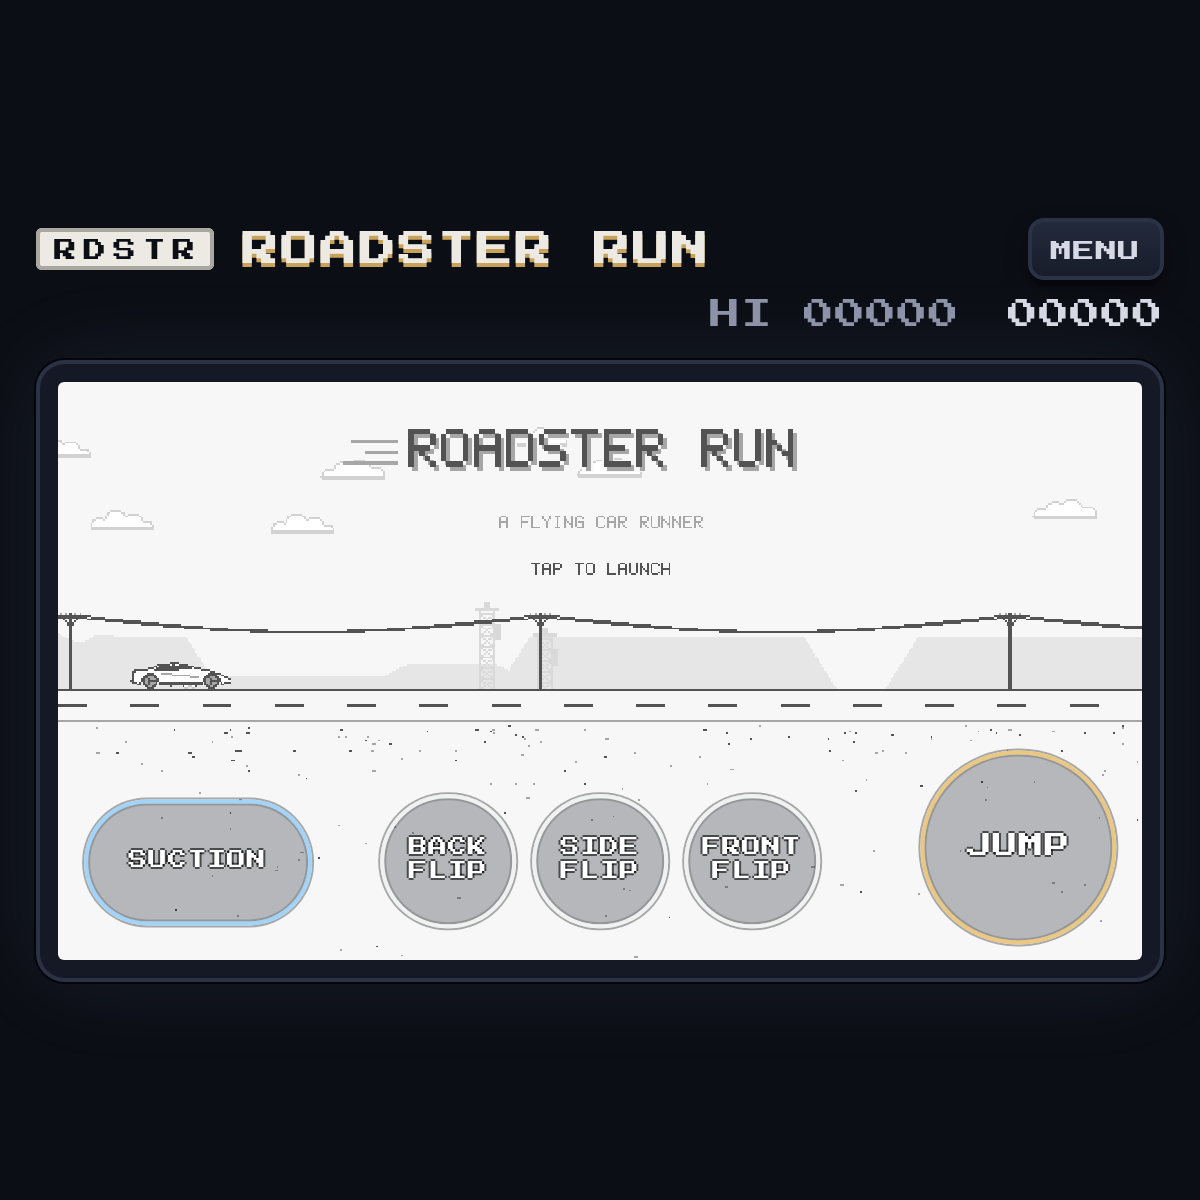
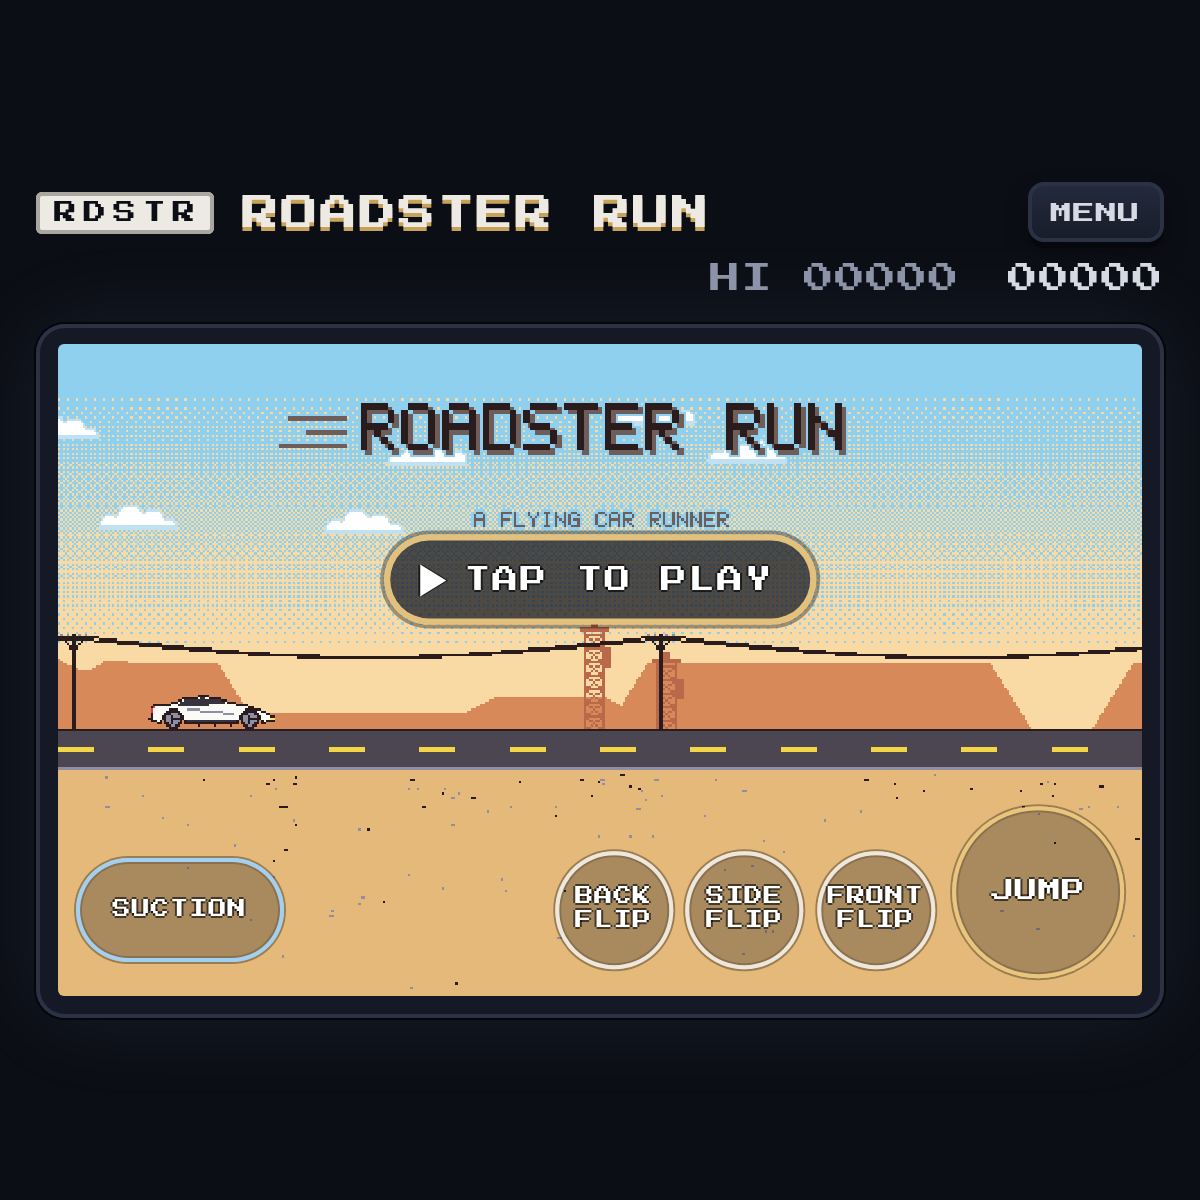
Roadster Run: Texas colors, closer view, smaller buttons (#14)
- The Texas colors are the default on the full page and in the square player.
- The square player shows a closer view (480 by 288), so the car looks
  bigger on a phone.
- The on-screen buttons are smaller. SUCTION is alone on the left, and the
  three flips sit in a row next to JUMP.
- The poster says TAP TO PLAY, because X shows only the picture until
  someone opens the post.

diff --git a/web/public/roadster-run/player.html b/web/public/roadster-run/player.html
@@ -17,12 +17,12 @@
 <meta name="twitter:player" content="https://shreyaspimpalgaonkar.github.io/roadster-run/player.html">
 <meta name="twitter:player:width" content="640">
 <meta name="twitter:player:height" content="640">
-<meta name="twitter:image" content="https://shreyaspimpalgaonkar.github.io/roadster-run/poster.png?v=4">
+<meta name="twitter:image" content="https://shreyaspimpalgaonkar.github.io/roadster-run/poster.png?v=7">
 <meta name="twitter:image:alt" content="The Roadster Run title screen in gray pixel art, with a white Roadster parked on a desert road.">
 <meta property="og:type" content="website">
 <meta property="og:title" content="Roadster Run">
 <meta property="og:description" content="Fly Tesla's new flying Roadster in a retro runner. Jump, hover, and do backflips, frontflips and sideflips.">
-<meta property="og:image" content="https://shreyaspimpalgaonkar.github.io/roadster-run/card.png?v=4">
+<meta property="og:image" content="https://shreyaspimpalgaonkar.github.io/roadster-run/card.png?v=7">
 <meta property="og:image:width" content="1200">
 <meta property="og:image:height" content="630">
 <meta property="og:url" content="https://shreyaspimpalgaonkar.github.io/roadster-run/player.html">
@@ -45,10 +45,10 @@
   html, body { margin: 0; height: 100%; overflow: hidden; background: var(--cab); color: var(--ink); }
   body { font-family: var(--display); -webkit-text-size-adjust: 100%; user-select: none; -webkit-user-select: none; }
   button { font: inherit; color: inherit; }
-  /* In a wide frame the cabinet gets narrower, so the 15:8 screen still fits the height. */
+  /* In a wide frame the cabinet gets narrower, so the 5:3 screen still fits the height. */
   .cab {
     position: fixed; inset: 0; margin: 0 auto; box-sizing: border-box; display: flex; flex-direction: column; justify-content: center;
-    width: min(100%, calc((100vh - var(--u) * 24 - 14px) * 1.875 + var(--u) * 9.6));
+    width: min(100%, calc((100vh - var(--u) * 24 - 14px) * 1.6667 + var(--u) * 9.6));
     gap: calc(var(--u) * 2.4); padding: calc(var(--u) * 3);
   }
   .top { display: flex; align-items: center; gap: calc(var(--u) * 2.4); }
@@ -75,7 +75,7 @@
     touch-action: none; cursor: pointer; -webkit-tap-highlight-color: transparent;
   }
   #game {
-    display: block; width: 100%; height: auto; aspect-ratio: 600 / 320; border-radius: 3px;
+    display: block; width: 100%; height: auto; aspect-ratio: 480 / 288; border-radius: 3px;
     image-rendering: pixelated; image-rendering: crisp-edges; -webkit-touch-callout: none;
   }
   .screen .view3d, .screen .hud3d {
@@ -89,13 +89,14 @@
     background: repeating-linear-gradient(to bottom, rgba(0, 0, 0, 0) 0 2px, rgba(0, 0, 0, 0.16) 2px 3px),
       radial-gradient(ellipse at center, rgba(0, 0, 0, 0) 60%, rgba(0, 0, 0, 0.32) 100%);
   }
-  /* on-screen buttons: placed in percent of the 600x320 game picture; the road ends at 59%,
-     so the buttons only cover the ground strip under it */
+  /* on-screen buttons: placed in percent of the 480x288 game picture; the road ends at 65%,
+     so the buttons only cover the ground strip under it. SUCTION is alone on the left,
+     and the three flips sit in a row next to JUMP on the right. */
   .ctl { position: absolute; inset: var(--pad); z-index: 3; pointer-events: none; container-type: inline-size; }
   .tb {
     position: absolute; transform: translate(-50%, -50%); aspect-ratio: 1; height: auto; border-radius: 50%;
     display: grid; place-items: center; align-content: center; padding: 0; margin: 0; pointer-events: auto;
-    font-size: calc(var(--u) * 1.6); font-size: 1.75cqw; line-height: 1.35; letter-spacing: 0.04em; text-align: center; color: #fff;
+    font-size: calc(var(--u) * 1.5); font-size: 1.7cqw; line-height: 1.35; letter-spacing: 0.04em; text-align: center; color: #fff;
     text-shadow: 1px 0 0 rgba(0, 0, 0, 0.6), -1px 0 0 rgba(0, 0, 0, 0.6), 0 1px 0 rgba(0, 0, 0, 0.6), 0 -1px 0 rgba(0, 0, 0, 0.6);
     background: rgba(14, 17, 27, 0.28); border: 2px solid rgba(255, 255, 255, 0.8);
     box-shadow: 0 0 0 1px rgba(0, 0, 0, 0.32), inset 0 0 0 1px rgba(0, 0, 0, 0.18);
@@ -104,10 +105,10 @@
   }
   .tb span { display: block; }
   .tb.down { background: rgba(255, 255, 255, 0.42); transform: translate(-50%, -50%) scale(0.92); }
-  .tb.jump { width: 18%; left: 88.6%; top: 80.6%; font-size: calc(var(--u) * 2.1); font-size: 2.3cqw; border-color: rgba(236, 200, 128, 0.95); }
-  .tb.duck { width: 21%; aspect-ratio: 120 / 66; border-radius: 999px; left: 12.9%; top: 83.2%; border-color: rgba(159, 214, 255, 0.92); }
-  .tb.flip { width: 12.5%; top: 83%; }
-  .tb.back { left: 36%; } .tb.side { left: 50%; } .tb.front { left: 64%; }
+  .tb.jump { width: 15.83%; left: 90.42%; top: 84.03%; font-size: calc(var(--u) * 1.9); font-size: 2.1cqw; border-color: rgba(236, 200, 128, 0.95); }
+  .tb.duck { width: 19.17%; aspect-ratio: 2; border-radius: 999px; left: 11.25%; top: 86.8%; border-color: rgba(159, 214, 255, 0.92); }
+  .tb.flip { width: 10.83%; top: 86.8%; }
+  .tb.back { left: 51.25%; } .tb.side { left: 63.33%; } .tb.front { left: 75.42%; }
   button:focus-visible, a:focus-visible { outline: 2px solid var(--gas); outline-offset: 2px; }
 
   /* the options menu covers the cabinet; the game waits underneath */
@@ -143,7 +144,7 @@
   </header>
   <div class="scores" aria-live="off"><span class="hi" id="hi">HI 00000</span><span id="sc">00000</span></div>
   <div class="screen" id="screen">
-    <canvas id="game" width="600" height="320" aria-label="Roadster Run. Tap to play."></canvas>
+    <canvas id="game" width="480" height="288" aria-label="Roadster Run. Tap to play."></canvas>
     <div class="ctl">
       <button class="tb duck" id="btnDuck" type="button" aria-label="Suction. Hold to duck.">SUCTION</button>
       <button class="tb flip back" id="btnBack" type="button" aria-label="Backflip"><span>BACK</span><span>FLIP</span></button>
@@ -164,7 +165,7 @@
       </div>
     </div>
     <div class="grid2">
-      <button class="opt" type="button" data-act="colors" id="optColors">COLORS: CLASSIC</button>
+      <button class="opt" type="button" data-act="colors" id="optColors">COLORS: TEXAS</button>
       <button class="opt" type="button" data-act="crt" id="optCrt" aria-pressed="false">CRT: OFF</button>
       <button class="opt" type="button" data-act="music" id="optMusic" aria-pressed="true">MUSIC: ON</button>
       <button class="opt" type="button" data-act="sound" id="optSound" aria-pressed="true">SOUND: ON</button>
@@ -178,7 +179,7 @@
 </div>
 
 <script>
-  window.RR_CONFIG = { palette: 'classic', fit: 'css', screenH: 320, view3d: { w: 600, h: 320, band: 120 }, zones: false };
+  window.RR_CONFIG = { palette: 'texas', fit: 'css', screenW: 480, screenH: 288, view3d: { w: 480, h: 288, band: 88 }, zones: false };
 </script>
 <script src="js/sprites.js"></script>
 <script src="js/core.js"></script>

diff --git a/web/public/roadster-run/index.html b/web/public/roadster-run/index.html
@@ -17,12 +17,12 @@
 <meta name="twitter:player" content="https://shreyaspimpalgaonkar.github.io/roadster-run/player.html">
 <meta name="twitter:player:width" content="640">
 <meta name="twitter:player:height" content="640">
-<meta name="twitter:image" content="https://shreyaspimpalgaonkar.github.io/roadster-run/poster.png?v=4">
+<meta name="twitter:image" content="https://shreyaspimpalgaonkar.github.io/roadster-run/poster.png?v=7">
 <meta name="twitter:image:alt" content="The Roadster Run title screen in gray pixel art, with a white Roadster parked on a desert road.">
 <meta property="og:type" content="website">
 <meta property="og:title" content="Roadster Run">
 <meta property="og:description" content="Fly Tesla's new flying Roadster in a retro runner, in 2D or 3D.">
-<meta property="og:image" content="https://shreyaspimpalgaonkar.github.io/roadster-run/card.png?v=4">
+<meta property="og:image" content="https://shreyaspimpalgaonkar.github.io/roadster-run/card.png?v=7">
 <meta property="og:image:width" content="1200">
 <meta property="og:image:height" content="630">
 <meta property="og:url" content="https://shreyaspimpalgaonkar.github.io/roadster-run/">
@@ -312,7 +312,7 @@
       <button class="pad jump chamfer" id="btnJump" type="button">JUMP<small>HOLD TO HOVER</small></button>
     </div>
     <div class="opts">
-      <button class="chamfer" type="button" data-act="colors" id="optColors">COLORS: CLASSIC</button>
+      <button class="chamfer" type="button" data-act="colors" id="optColors">COLORS: TEXAS</button>
       <button class="chamfer" type="button" data-act="sound" id="optSound" aria-pressed="true">SOUND: ON</button>
       <button class="chamfer" type="button" data-act="music" id="optMusic" aria-pressed="true">MUSIC: ON</button>
       <button class="chamfer" type="button" data-act="crt" id="optCrt" aria-pressed="false">CRT: OFF</button>
@@ -367,7 +367,7 @@
   </footer>
 </div>
 
-<script>window.RR_CONFIG = { palette: 'classic' };</script>
+<script>window.RR_CONFIG = { palette: 'texas' };</script>
 <script src="js/sprites.js"></script>
 <script src="js/core.js"></script>
 <script src="js/render2d.js"></script>

diff --git a/web/public/roadster-run/js/render2d.js b/web/public/roadster-run/js/render2d.js
@@ -1,6 +1,7 @@
 /* Roadster Run: the 2D pixel renderer. Draws the shared simulation into a
    600x200 canvas that CSS scales up with nearest-neighbour filtering.
-   opts.h makes the canvas taller; the extra rows are ground below the road. */
+   opts.h makes the canvas taller; the extra rows are ground below the road.
+   opts.w makes it narrower, which is a closer view: the car and the traffic look bigger. */
 (function (global) {
   'use strict';
   const A = global.RRArt, C = global.RRCore.CFG;
@@ -13,10 +14,11 @@
   class Render2D {
     constructor(canvas, catalogue, opts) {
       this.H = Math.max(H, (opts && opts.h) || H);
-      this.cv = canvas; canvas.width = W; canvas.height = this.H;
+      this.W = Math.min(W, (opts && opts.w) || W);
+      this.cv = canvas; canvas.width = this.W; canvas.height = this.H;
       this.ctx = canvas.getContext('2d');
       this.cat = catalogue;
-      this.bufA = mk(W, this.H); this.bufB = mk(W, this.H);
+      this.bufA = mk(this.W, this.H); this.bufB = mk(this.W, this.H);
       this.particles = [];
       this.shake = 0; this.camY = 0; this.time = 0; this.flash = 0;
       this.touch = false;

diff --git a/web/public/roadster-run/js/main.js b/web/public/roadster-run/js/main.js
@@ -17,7 +17,7 @@
     const game = new Core.Game(cat);
     const canvas = document.getElementById('game');
     const screen = document.getElementById('screen');
-    const r2d = new window.RRRender2D(canvas, cat, { h: CONF.screenH });
+    const r2d = new window.RRRender2D(canvas, cat, { h: CONF.screenH, w: CONF.screenW });
     const audio = new window.RRAudio('assets/');
     const $ = id => document.getElementById(id);
 
